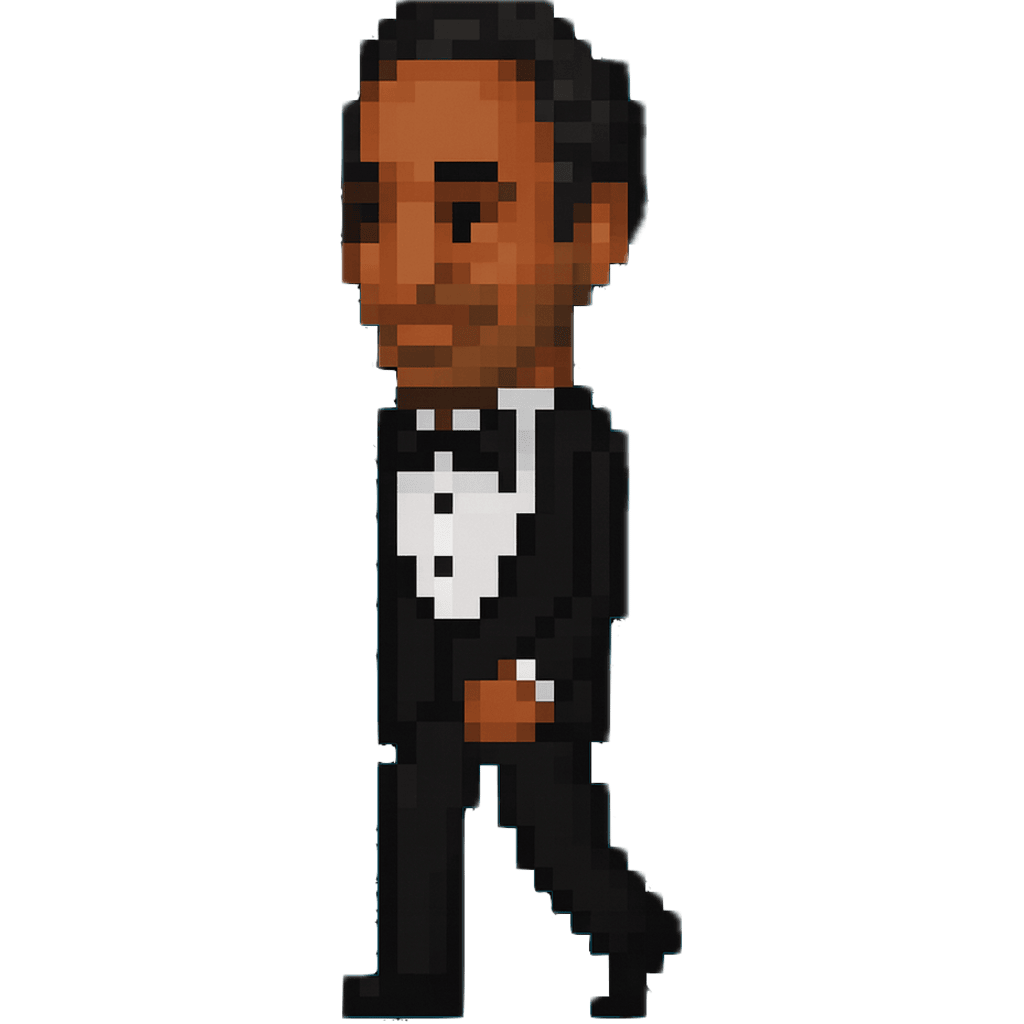
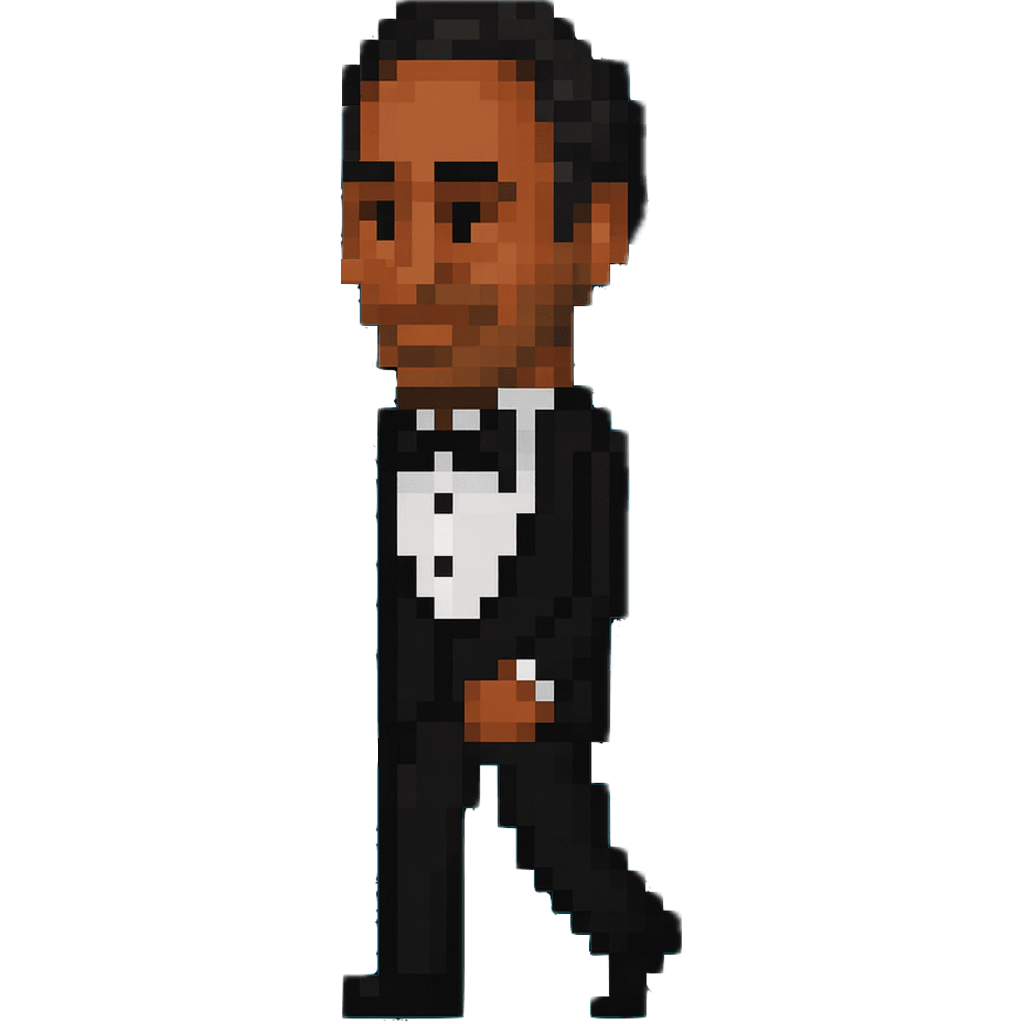
image edits

Changed region(s): [[0.3125, 0.1562, 0.4062, 0.2812], [0.3438, 0.7188, 0.4062, 0.75], [0.3125, 0.0625, 0.375, 0.0938]]

diff --git a/src/App.tsx b/src/App.tsx
@@ -28,7 +28,7 @@ const App: React.FC = () => {
                 <PixiCanvas width={800} height={480} />
               </>
             ) : (
-              <img className="markets-closed-image" src="/images/All-In-Poker.png" alt="Markets Closed" />
+              <img className="markets-closed-image" src="/images/All-In-End-Screen.png" alt="Markets Closed" />
             )}
           </div>
 
